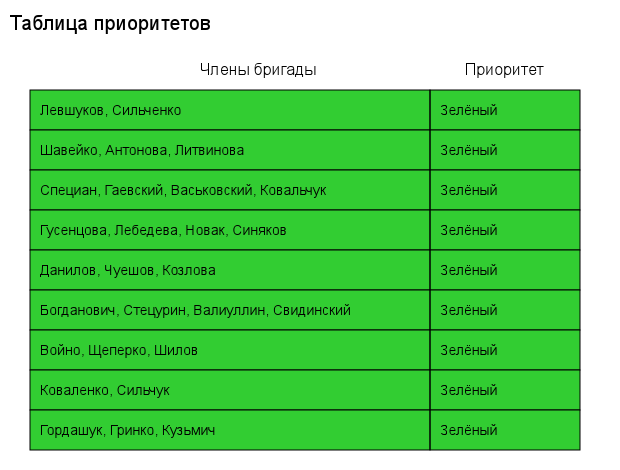
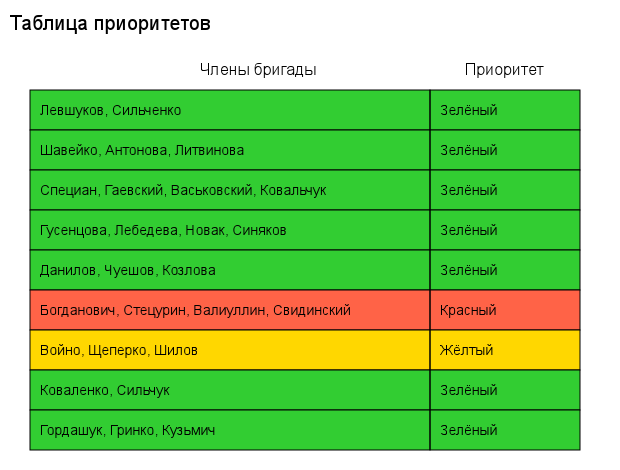
bzch priorities done

Changed region(s): [[0.0306, 0.5957, 0.95, 0.8043]]

diff --git a/src/commands/priority.js b/src/commands/priority.js
@@ -1,12 +1,19 @@
 const { InputFile } = require('grammy');
 
 const {
-    returnToKProg, getReturnKeyboard
+    returnToKProg, getReturnKeyboard,
+    returnToBZCH
 } = require('../bot/keyboards'); 
 
 const { 
     getAllUsers, setPriority,
-    getBZCHPriorityTable
+    getBZCHPriorityTable,
+    setBZCHPriority,
+    getInfoById,
+    getQueue,
+    isInBZCH,
+    getBZCHStatus,
+    setPriorityStatus
 } = require('../database/database');
 
 const { generatePriorityTable, generateBZCHPriorityTable } = require('../tables/tables');
@@ -85,39 +92,56 @@ function priorityCommand(bot) {
             +'Таблица приоритетов представленна выше',
             {
                 parse_mode: 'MarkdownV2',
-                reply_markup: returnToKProg
+                reply_markup: returnToBZCH
             }
         );
     });
 
-    bot.callbackQuery('passed', async (ctx) => {
+    bot.callbackQuery(/(passed|notPassed|notPsbl):(\w+)/, async (ctx) => {
         await ctx.answerCallbackQuery();
+        
+        const action = ctx.match[1];
+        const subject = ctx.match[2]; 
+        
+        let priority;
+        let message;
 
-        await setPriority(ctx.from.id.toString(), "Зелёный");
-        await ctx.callbackQuery.message.editText(`*🎉 Поздравляю со сдачей\\!*\n\n_🟩 Вам выдан зелёный приоритет_`, {
+        const userInfo = await getInfoById(ctx.from.id.toString())
+
+        if (subject == 'bzch') {
+            if (await getBZCHStatus(userInfo.brigade_id)) {
+                await ctx.callbackQuery.message.editText("Один из членов вашей бригады уже поставил приоритет", {
+                    parse_mode: 'MarkdownV2',
+                    reply_markup: getReturnKeyboard(false, 'bzch')
+                });
+            } else {
+                await setPriorityStatus(userInfo.brigade_id, true);
+            }
+            
+        }
+    
+        if (action === 'passed') {
+            priority = "Зелёный";
+            message = `*🎉 Поздравляю со сдачей\\!*\n\n_🟩 Вам выдан зелёный приоритет_`;
+        } else if (action === 'notPassed') {
+            priority = "Жёлтый";
+            message = `*😔 Ничего страшного\\!*\nНа следующей паре вы сможете сдать чуть первее других\n\n🟨 _Вам выдан жёлтый приоритет_`;
+        } else if (action === 'notPsbl') {
+            priority = "Красный";
+            message = `*☹ Очень жаль, что вы не успели\\.*\nНа следующей паре вы сможете сдать лабораторную работу одним\\(\\-ой\\) из первых\n\n_🟥 Вам выдан красный приоритет_`;
+        }
+        
+        
+        if (subject == 'kprog') {
+            await setPriority(userInfo.tg_id, priority);
+        } else {
+            await setBZCHPriority(userInfo.brigade_id, priority)
+        }
+        
+        await ctx.callbackQuery.message.editText(message, {
             parse_mode: 'MarkdownV2',
-            reply_markup: getReturnKeyboard(false, 'kprog')
-        })
-    });
-
-    bot.callbackQuery('notPassed', async (ctx) => {
-        await ctx.answerCallbackQuery();
-
-        await setPriority(ctx.from.id.toString(), "Жёлтый");
-        await ctx.callbackQuery.message.editText(`*😔 Ничего страшного\\!*\nНа следующей паре вы сможете сдать чуть первее других\n\n🟨 _Вам выдан жёлтый приоритет_`, {
-            parse_mode: 'MarkdownV2',
-            reply_markup: getReturnKeyboard(false, 'kprog')
-        })
-    });
-
-    bot.callbackQuery('notPsbl', async (ctx) => {
-        await ctx.answerCallbackQuery();
-
-        await setPriority(ctx.from.id.toString(), "Красный");
-        await ctx.callbackQuery.message.editText(`*☹ Очень жаль, что вы не успели\\.*\nНа следующей паре вы сможете сдать лабораторную работу одним\\(\\-ой\\) из первых\n\n_🟥 Вам выдан красный приоритет_`, {
-            parse_mode: 'MarkdownV2',
-            reply_markup: getReturnKeyboard(false, 'kprog')
-        })
+            reply_markup: getReturnKeyboard(false, subject)
+        });
     });
 }
 

diff --git a/src/database/database.js b/src/database/database.js
@@ -41,6 +41,17 @@ async function getInfoById(id) {
     }
 }
 
+async function getBZCHStatus(id) {
+    const query = `SELECT * FROM BZCH WHERE brigade_id = ?`;
+    try {
+        const [result] = await pool.promise().query(query, [id]);
+        return result.length > 0 ? result[0].isPriorityGiven : null;
+    } catch (err) {
+        console.error('Ошибка при получении информации о пользователе:', err);
+        throw err;
+    }
+}
+
 // Получение информации обо всех пользователях
 async function getAllUsers() {
     const query = `SELECT * FROM Users`;
@@ -149,11 +160,23 @@ async function setBZCHPriority(id, priority) {
         await pool.promise().query(updateQuery, [priority, id]);
         config = await readConfig();
 
-        if (config.isKProgEnd) {
-            const updateKProgQuery = 'UPDATE BZCH SET priority = ? WHERE brigade_id = ?';
-            await pool.promise().query(updateKProgQuery, [priority, id]);
+        if (config.isBZCHEnd) {
+            const updateBZCHQuery = 'UPDATE BZCH SET priority = ? WHERE brigade_id = ?';
+            await pool.promise().query(updateBZCHQuery, [priority, id]);
         }
         console.log(`Priority для бригады с id ${id} обновлён на ${priority}`);
+    } catch (err) {
+        console.error('Ошибка при обновлении приоритета:', err);
+    }
+}
+
+async function setPriorityStatus(id, status) {
+    try {
+        const updateQuery = 'UPDATE BZCH SET isPriorityGiven = ? WHERE brigade_id = ?';
+        await pool.promise().query(updateQuery, [status, id]);
+        config = await readConfig();
+
+        console.log(`Статус приоритета для бригады с id ${id} обновлён на ${status}`);
     } catch (err) {
         console.error('Ошибка при обновлении приоритета:', err);
     }
@@ -200,5 +223,7 @@ module.exports = {
     clearTable,
     isInBZCH,
     getBZCHPriorityTable,
-    setBZCHPriority
+    setBZCHPriority,
+    setPriorityStatus,
+    getBZCHStatus
 };

diff --git a/src/commands/delayedMsgs.js b/src/commands/delayedMsgs.js
@@ -1,6 +1,6 @@
-const { getAllUsers, getQueue, setPriority, clearTable, setBZCHPriority } = require('../database/database');
+const { getAllUsers, getQueue, setPriority, clearTable, setBZCHPriority, setPriorityStatus } = require('../database/database');
 const schedule = require('node-schedule');
-const { createSignButton, kprogStatusKeyboard } = require('../bot/keyboards');
+const { createSignButton, kprogStatusKeyboard, createStatusKeyboard } = require('../bot/keyboards');
 const { lessons } = require ('../lessons/lessons');
 const {readConfig, writeConfig} = require ('../utils/config')
 const Mutex = require('async-mutex').Mutex;
@@ -105,7 +105,7 @@ function sendEndMessage(bot, dateTime, lesson) {
     const jobDate = new Date(year, month - 1, day, hour, minute);
 
     const message = `*Пара по ${lesson} закончилась*\n\nСдали ли вы лабораторную работу?`;
-    const replyMarkup = kprogStatusKeyboard;
+    let replyMarkup;
 
     schedule.scheduleJob(jobDate, async () => {
         
@@ -113,17 +113,21 @@ function sendEndMessage(bot, dateTime, lesson) {
         let data;
         if (lesson === 'КПрог') {
             config.isKProgEnd = true;
-            data = await getQueue("KProg");
+            data = await getQueue("kprog");
             for (let user of data) {
                 setPriority(user.tg_id, "Зелёный");
             }
+            replyMarkup = createStatusKeyboard('kprog');
             await sendMessagesToUsers(bot, message, replyMarkup, true, 'KProg');
         } else {
             config.isBZCHEnd = true;
             data = await getQueue("BZCH");
             for (let brigade of data) {
-                setBZCHPriority(brigade.brigade_id, "Зелёный");
+                await setBZCHPriority(brigade.brigade_id, "Зелёный");
+                await setPriorityStatus(brigade.brigade_id, false);
             }
+            replyMarkup = createStatusKeyboard('bzch');
+            
             await sendMessagesToUsers(bot, message, replyMarkup, true, 'BZCH');
         }
         

diff --git a/src/bot/keyboards.js b/src/bot/keyboards.js
@@ -59,10 +59,12 @@ const returnToPZMA = new InlineKeyboard().text('↩Вернуться к ПЗ
 const returnToMCHA = new InlineKeyboard().text('↩Вернуться к МЧА ', 'mcha');
 const returnToBZCH = new InlineKeyboard().text('↩Вернуться к БЖЧ ', 'bzch');
 
-const kprogStatusKeyboard = new InlineKeyboard()
-    .text("🟩Сдал(-а)", "passed").row()
-    .text("🟨Подошёл(-ла), но не сдал(-а)", "notPassed").row()
-    .text("🟥Не успел(-а) подойти", "notPsbl").row()
+function createStatusKeyboard(subject) {
+    return new InlineKeyboard()
+        .text("🟩Сдал(-а)", `passed:${subject}`).row()
+        .text("🟨Подошёл(-ла), но не сдал(-а)", `notPassed:${subject}`).row()
+        .text("🟥Не успел(-а) подойти", `notPsbl:${subject}`).row();
+}
 
 
 const adminKeyboard = new InlineKeyboard()
@@ -95,7 +97,7 @@ module.exports = {
     returnToMCHA,
     returnToBZCH,
     createSignButton,
-    kprogStatusKeyboard,
+    createStatusKeyboard,
     adminKeyboard,
     setPriorityKeyboard,
     getReturnKeyboard,

diff --git a/src/lessons/schedules/BZCHSchedule.js b/src/lessons/schedules/BZCHSchedule.js
@@ -9,7 +9,7 @@ const BZCHEnd = new Array();
 
 //test
 BZCHSchedule.push({
-    time: '2024-11-26 7:01',
+    time: '2024-11-28 01:23',
     type: 0
 });
 
@@ -37,7 +37,7 @@ BZCHSchedule.push({
     time: '2024-12-27 17:00',
     type: 0
 });
-BZCHEnd.push('2024-11-28 00:23');
+BZCHEnd.push('2024-11-28 01:50');
 BZCHEnd.push('2024-11-30 11:55');
 BZCHEnd.push('2024-12-05 11:55');
 BZCHEnd.push('2024-12-05 11:55');
